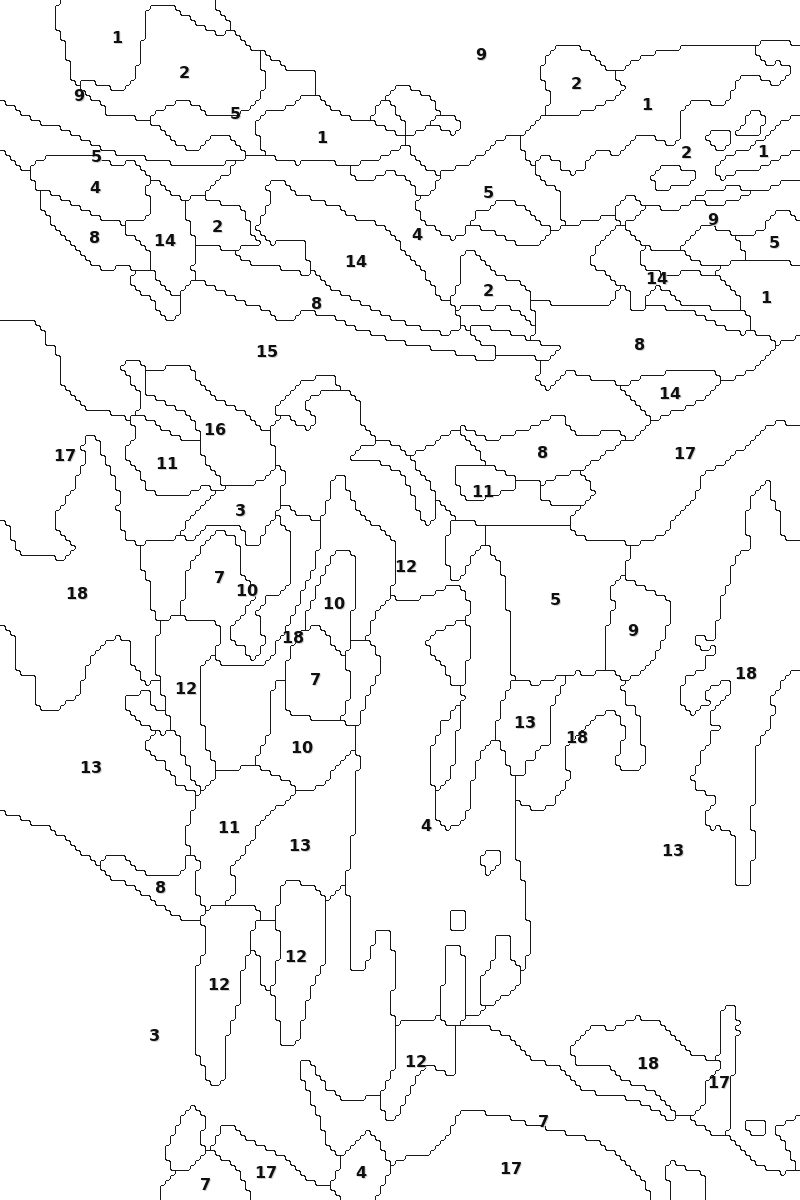
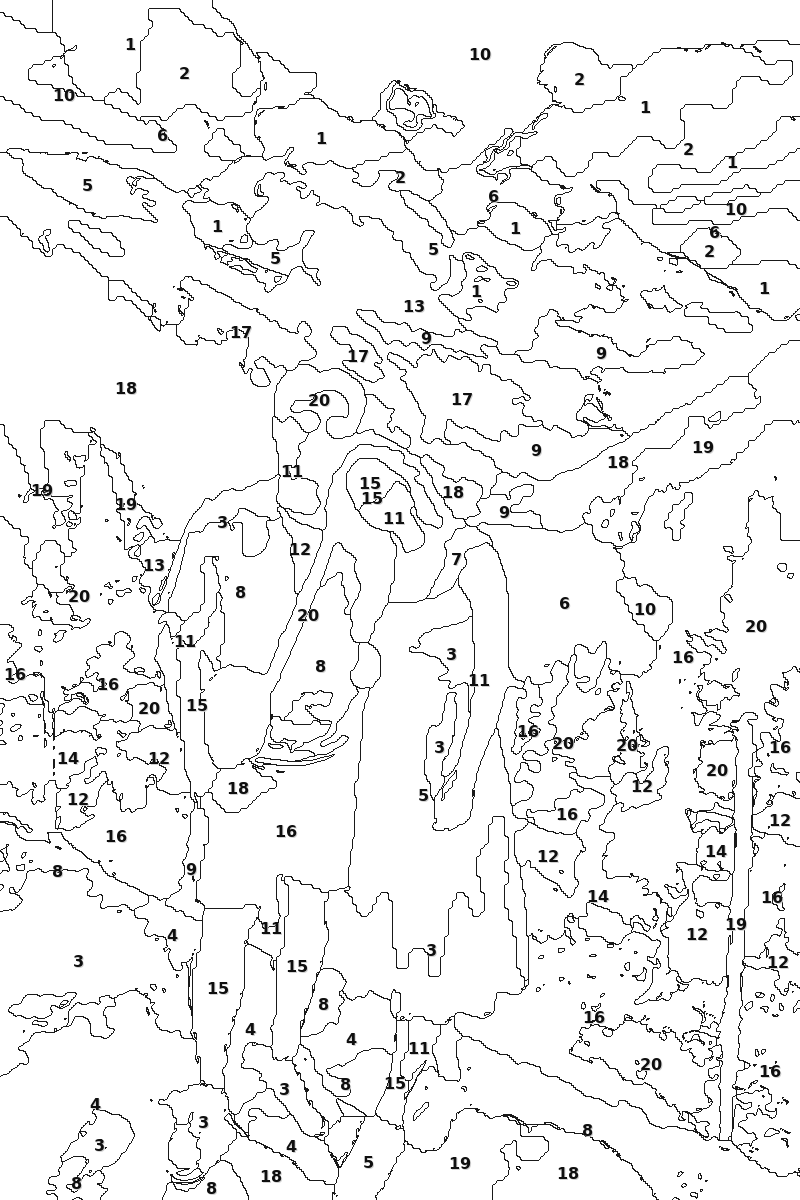
Сохранить детали лица в картине по номерам

diff --git a/paint-by-numbers.html b/paint-by-numbers.html
@@ -128,11 +128,11 @@
 
     <div class="panel">
       <h2 style="margin:0 0 10px; font-size:1.1rem;">Как должно выглядеть</h2>
-      <p class="tip">Хорошая картина по номерам — это <strong>крупные ровные зоны</strong> и немного линий. Не должно быть «мелкой сетки» по всему небу и горам.</p>
+      <p class="tip">Хороший баланс: <strong>лицо и люди детально</strong>, а небо и горы — крупными зонами без лишних линий.</p>
       <div class="example-grid">
         <div class="example-card">
           <img src="paint-by-numbers/example-clean-template.png" alt="Пример чистого шаблона">
-          <p>Так правильно — крупные зоны</p>
+          <p>Баланс: лицо видно, фон простой</p>
         </div>
         <div class="example-card">
           <img src="paint-by-numbers/example-clean-reference.png" alt="Пример цветного образца">
@@ -150,12 +150,12 @@
 
       <div class="controls">
         <div>
-          <label for="colors">Количество цветов: <span id="colorsValue">18</span></label>
-          <input id="colors" type="range" min="12" max="30" value="18">
+          <label for="colors">Количество цветов: <span id="colorsValue">20</span></label>
+          <input id="colors" type="range" min="12" max="30" value="20">
         </div>
         <div>
-          <label for="simplicity">Простота линий: <span id="simplicityValue">чистый шаблон</span></label>
-          <input id="simplicity" type="range" min="1" max="3" value="3">
+          <label for="simplicity">Простота линий: <span id="simplicityValue">средне</span></label>
+          <input id="simplicity" type="range" min="1" max="3" value="2">
         </div>
         <div>
           <label for="vibrancy">Яркость цветов: <span id="vibrancyValue">яркие</span></label>
@@ -438,9 +438,9 @@
       return { width, height, labels: filtered };
     }
 
-    function buildSimplifiedLabelMap(imageData, centroids, simplifyFactor) {
-      const sw = Math.max(1, Math.round(imageData.width / simplifyFactor));
-      const sh = Math.max(1, Math.round(imageData.height / simplifyFactor));
+    function downscaleImageData(imageData, factor, centroids, smoothPasses = 1) {
+      const sw = Math.max(1, Math.round(imageData.width / factor));
+      const sh = Math.max(1, Math.round(imageData.height / factor));
       const smallCanvas = document.createElement("canvas");
       smallCanvas.width = sw;
       smallCanvas.height = sh;
@@ -449,10 +449,10 @@
       tempCanvas.height = imageData.height;
       tempCanvas.getContext("2d").putImageData(imageData, 0, 0);
       smallCanvas.getContext("2d").drawImage(tempCanvas, 0, 0, sw, sh);
-      const smallData = smallCanvas.getContext("2d").getImageData(0, 0, sw, sh);
-      let smallMap = buildLabelMap(smallData, centroids);
-      smallMap = modeFilterLabels(smallMap, 5);
-      smallMap = modeFilterLabels(smallMap, 5);
+      let smallMap = buildLabelMap(smallCanvas.getContext("2d").getImageData(0, 0, sw, sh), centroids);
+      for (let i = 0; i < smoothPasses; i++) {
+        smallMap = modeFilterLabels(smallMap, smoothPasses >= 2 ? 5 : 3);
+      }
 
       const labels = new Int32Array(imageData.width * imageData.height);
       for (let y = 0; y < imageData.height; y++) {
@@ -462,7 +462,64 @@
           labels[y * imageData.width + x] = smallMap.labels[sy * sw + sx];
         }
       }
-      return modeFilterLabels({ width: imageData.width, height: imageData.height, labels }, 3);
+      return { width: imageData.width, height: imageData.height, labels };
+    }
+
+    function buildDetailMask(imageData) {
+      const { width, height, data } = imageData;
+      const gray = new Float32Array(width * height);
+      for (let i = 0, p = 0; i < data.length; i += 4, p++) {
+        gray[p] = 0.299 * data[i] + 0.587 * data[i + 1] + 0.114 * data[i + 2];
+      }
+
+      const edges = new Float32Array(width * height);
+      for (let y = 1; y < height - 1; y++) {
+        for (let x = 1; x < width - 1; x++) {
+          const idx = y * width + x;
+          const gx = gray[idx + 1] - gray[idx - 1];
+          const gy = gray[idx + width] - gray[idx - width];
+          edges[idx] = Math.hypot(gx, gy);
+        }
+      }
+
+      let min = Infinity;
+      let max = 0;
+      for (const value of edges) {
+        if (value < min) min = value;
+        if (value > max) max = value;
+      }
+
+      const centerY = height * 0.42;
+      const centerX = width * 0.5;
+      const mask = new Float32Array(width * height);
+      for (let y = 0; y < height; y++) {
+        for (let x = 0; x < width; x++) {
+          const idx = y * width + x;
+          const edge = (edges[idx] - min) / (max - min + 1e-6);
+          const dx = (x - centerX) / (width * 0.24);
+          const dy = (y - centerY) / (height * 0.3);
+          const focus = Math.exp(-(dx * dx + dy * dy));
+          mask[idx] = Math.min(1, edge * 0.65 + focus * 0.35);
+        }
+      }
+      return mask;
+    }
+
+    function buildAdaptiveLabelMap(imageData, centroids, simplifyFactor) {
+      const fineFactor = Math.max(1, simplifyFactor - 1);
+      const coarseFactor = simplifyFactor + 1;
+      const fineMap = downscaleImageData(imageData, fineFactor, centroids, 1);
+      const coarseMap = downscaleImageData(imageData, coarseFactor, centroids, 2);
+      const mask = buildDetailMask(imageData);
+
+      const sorted = Array.from(mask).sort((a, b) => a - b);
+      const threshold = sorted[Math.floor(sorted.length * (0.48 + simplifyFactor * 0.04))];
+
+      const labels = new Int32Array(imageData.width * imageData.height);
+      for (let i = 0; i < labels.length; i++) {
+        labels[i] = mask[i] >= threshold ? fineMap.labels[i] : coarseMap.labels[i];
+      }
+      return { width: imageData.width, height: imageData.height, labels };
     }
 
     function connectedComponents(labels, width, height, colorId) {
@@ -641,10 +698,10 @@
       const vibrancy = Number(vibrancyInput.value);
       const satFactor = vibrancy === 1 ? 1.45 : vibrancy === 2 ? 1.85 : 2.25;
       const contrast = vibrancy === 1 ? 1.08 : vibrancy === 2 ? 1.15 : 1.24;
-      const simplifyFactor = simplicity === 1 ? 2 : simplicity === 2 ? 3 : 5;
-      const maxSize = simplicity === 1 ? 1100 : simplicity === 2 ? 1000 : 900;
-      const minLabelArea = simplicity === 1 ? 1200 : simplicity === 2 ? 2000 : 3200;
-      const sampleStep = simplicity === 1 ? 4 : simplicity === 2 ? 5 : 6;
+      const simplifyFactor = simplicity === 1 ? 2 : simplicity === 2 ? 3 : 4;
+      const maxSize = simplicity === 1 ? 1100 : simplicity === 2 ? 1050 : 950;
+      const minLabelArea = simplicity === 1 ? 900 : simplicity === 2 ? 1400 : 2200;
+      const sampleStep = simplicity === 1 ? 3 : simplicity === 2 ? 4 : 5;
 
       const imageData = enhanceImageData(
         resizeImage(sourceImage, maxSize),
@@ -658,7 +715,7 @@
 
       const { centroids: rawCentroids } = kmeans(pixels, colors);
       const centroids = vibrantCentroids(rawCentroids);
-      const labelMap = buildSimplifiedLabelMap(imageData, centroids, simplifyFactor);
+      const labelMap = buildAdaptiveLabelMap(imageData, centroids, simplifyFactor);
       const templateCanvas = drawTemplate(labelMap, centroids, minLabelArea);
       const referenceCanvas = drawReference(labelMap, centroids);
       const paletteCanvas = drawPalette(centroids);

diff --git a/paint_by_numbers.py b/paint_by_numbers.py
@@ -81,46 +81,80 @@ def simplify_labels(labels: np.ndarray, min_region: int = 500, smooth_size: int 
     return result
 
 
-def quantize_colors(
-    image: Image.Image,
-    num_colors: int,
-    simplify_factor: int = 4,
-) -> tuple[np.ndarray, np.ndarray]:
-    enhanced = enhance_image(image)
-    if simplify_factor > 1:
+def detail_mask(image: Image.Image) -> np.ndarray:
+    """Highlight faces and detailed areas that should stay sharper."""
+    gray = np.array(image.convert("L"), dtype=np.float32)
+    gx = ndimage.sobel(gray, axis=1)
+    gy = ndimage.sobel(gray, axis=0)
+    edges = ndimage.gaussian_filter(np.hypot(gx, gy), sigma=2.0)
+    edges = (edges - edges.min()) / (edges.max() - edges.min() + 1e-6)
+
+    height, width = gray.shape
+    y, x = np.ogrid[:height, :width]
+    center_y = height * 0.42
+    center_x = width * 0.5
+    focus = np.exp(-(((x - center_x) / (width * 0.24)) ** 2 + ((y - center_y) / (height * 0.3)) ** 2))
+
+    return np.clip(edges * 0.65 + focus * 0.35, 0.0, 1.0)
+
+
+def labels_at_scale(
+    enhanced: Image.Image,
+    palette: np.ndarray,
+    factor: int,
+    smooth_size: int,
+) -> np.ndarray:
+    if factor > 1:
         small = enhanced.resize(
-            (
-                max(1, enhanced.width // simplify_factor),
-                max(1, enhanced.height // simplify_factor),
-            ),
+            (max(1, enhanced.width // factor), max(1, enhanced.height // factor)),
             Image.Resampling.BILINEAR,
         )
     else:
         small = enhanced
-
-    quantized = small.quantize(colors=num_colors, method=Image.Quantize.MEDIANCUT)
-    raw_palette = np.array(quantized.getpalette(), dtype=np.uint8).reshape(-1, 3)[:num_colors]
-    palette = vibrant_palette(raw_palette)
 
     pixels = np.array(small, dtype=np.float32).reshape(-1, 3)
     palette_f = palette.astype(np.float32)
     labels_small = np.argmin(((pixels[:, None, :] - palette_f[None, :, :]) ** 2).sum(axis=2), axis=1)
     labels_small = labels_small.astype(np.int32).reshape(small.height, small.width)
 
-    min_region = max(8, (small.width * small.height) // (num_colors * 45))
-    labels_small = simplify_labels(labels_small, min_region=min_region, smooth_size=5)
+    min_region = max(6, (small.width * small.height) // (len(palette) * 55))
+    labels_small = simplify_labels(labels_small, min_region=min_region, smooth_size=smooth_size)
 
-    if simplify_factor > 1:
+    if factor > 1:
         labels_img = Image.fromarray(labels_small.astype(np.uint8), mode="L")
-        labels = np.array(
-            labels_img.resize(enhanced.size, Image.Resampling.NEAREST),
-            dtype=np.int32,
-        )
-        labels = simplify_labels(labels, min_region=min_region * simplify_factor, smooth_size=3)
-    else:
-        labels = labels_small
+        labels = np.array(labels_img.resize(enhanced.size, Image.Resampling.NEAREST), dtype=np.int32)
+        if smooth_size > 1:
+            labels = simplify_labels(labels, min_region=min_region * factor, smooth_size=max(3, smooth_size - 2))
+        return labels
 
-    return labels, palette
+    return labels_small
+
+
+def quantize_colors(
+    image: Image.Image,
+    num_colors: int,
+    simplify_factor: int = 3,
+) -> tuple[np.ndarray, np.ndarray]:
+    enhanced = enhance_image(image)
+
+    fine_factor = max(1, simplify_factor - 1)
+    coarse_factor = simplify_factor + 1
+
+    quantized = enhanced.resize(
+        (max(1, enhanced.width // fine_factor), max(1, enhanced.height // fine_factor)),
+        Image.Resampling.BILINEAR,
+    ).quantize(colors=num_colors, method=Image.Quantize.MEDIANCUT)
+    raw_palette = np.array(quantized.getpalette(), dtype=np.uint8).reshape(-1, 3)[:num_colors]
+    palette = vibrant_palette(raw_palette)
+
+    labels_fine = labels_at_scale(enhanced, palette, fine_factor, smooth_size=3)
+    labels_coarse = labels_at_scale(enhanced, palette, coarse_factor, smooth_size=5)
+
+    mask = detail_mask(enhanced)
+    keep_detail = mask >= np.percentile(mask, 100 - (38 + simplify_factor * 4))
+    labels = np.where(keep_detail, labels_fine, labels_coarse)
+
+    return labels.astype(np.int32), palette
 
 
 def create_outline(labels: np.ndarray) -> Image.Image:
@@ -204,10 +238,10 @@ def create_reference_image(labels: np.ndarray, palette: np.ndarray) -> Image.Ima
 def generate_paint_by_numbers(
     input_path: Path,
     output_dir: Path,
-    num_colors: int = 18,
-    min_label_area: int = 1800,
+    num_colors: int = 20,
+    min_label_area: int = 1400,
     max_dimension: int = 1200,
-    simplify_factor: int = 4,
+    simplify_factor: int = 3,
 ) -> dict[str, Path]:
     output_dir.mkdir(parents=True, exist_ok=True)
     image = Image.open(input_path)
@@ -259,10 +293,10 @@ def main() -> None:
     parser = argparse.ArgumentParser(description="Create paint-by-numbers files from an image.")
     parser.add_argument("input", type=Path, help="Source image path")
     parser.add_argument("-o", "--output-dir", type=Path, default=Path("paint-by-numbers"))
-    parser.add_argument("--colors", type=int, default=18, help="Number of paint colors")
-    parser.add_argument("--min-label", type=int, default=1800, help="Minimum area to show a number")
+    parser.add_argument("--colors", type=int, default=20, help="Number of paint colors")
+    parser.add_argument("--min-label", type=int, default=1400, help="Minimum area to show a number")
     parser.add_argument("--max-size", type=int, default=1200, help="Max width/height")
-    parser.add_argument("--simplify", type=int, default=4, help="Shape simplification (2=detailed, 5=clean)")
+    parser.add_argument("--simplify", type=int, default=3, help="Shape simplification (2=detailed, 5=clean)")
     args = parser.parse_args()
 
     outputs = generate_paint_by_numbers(